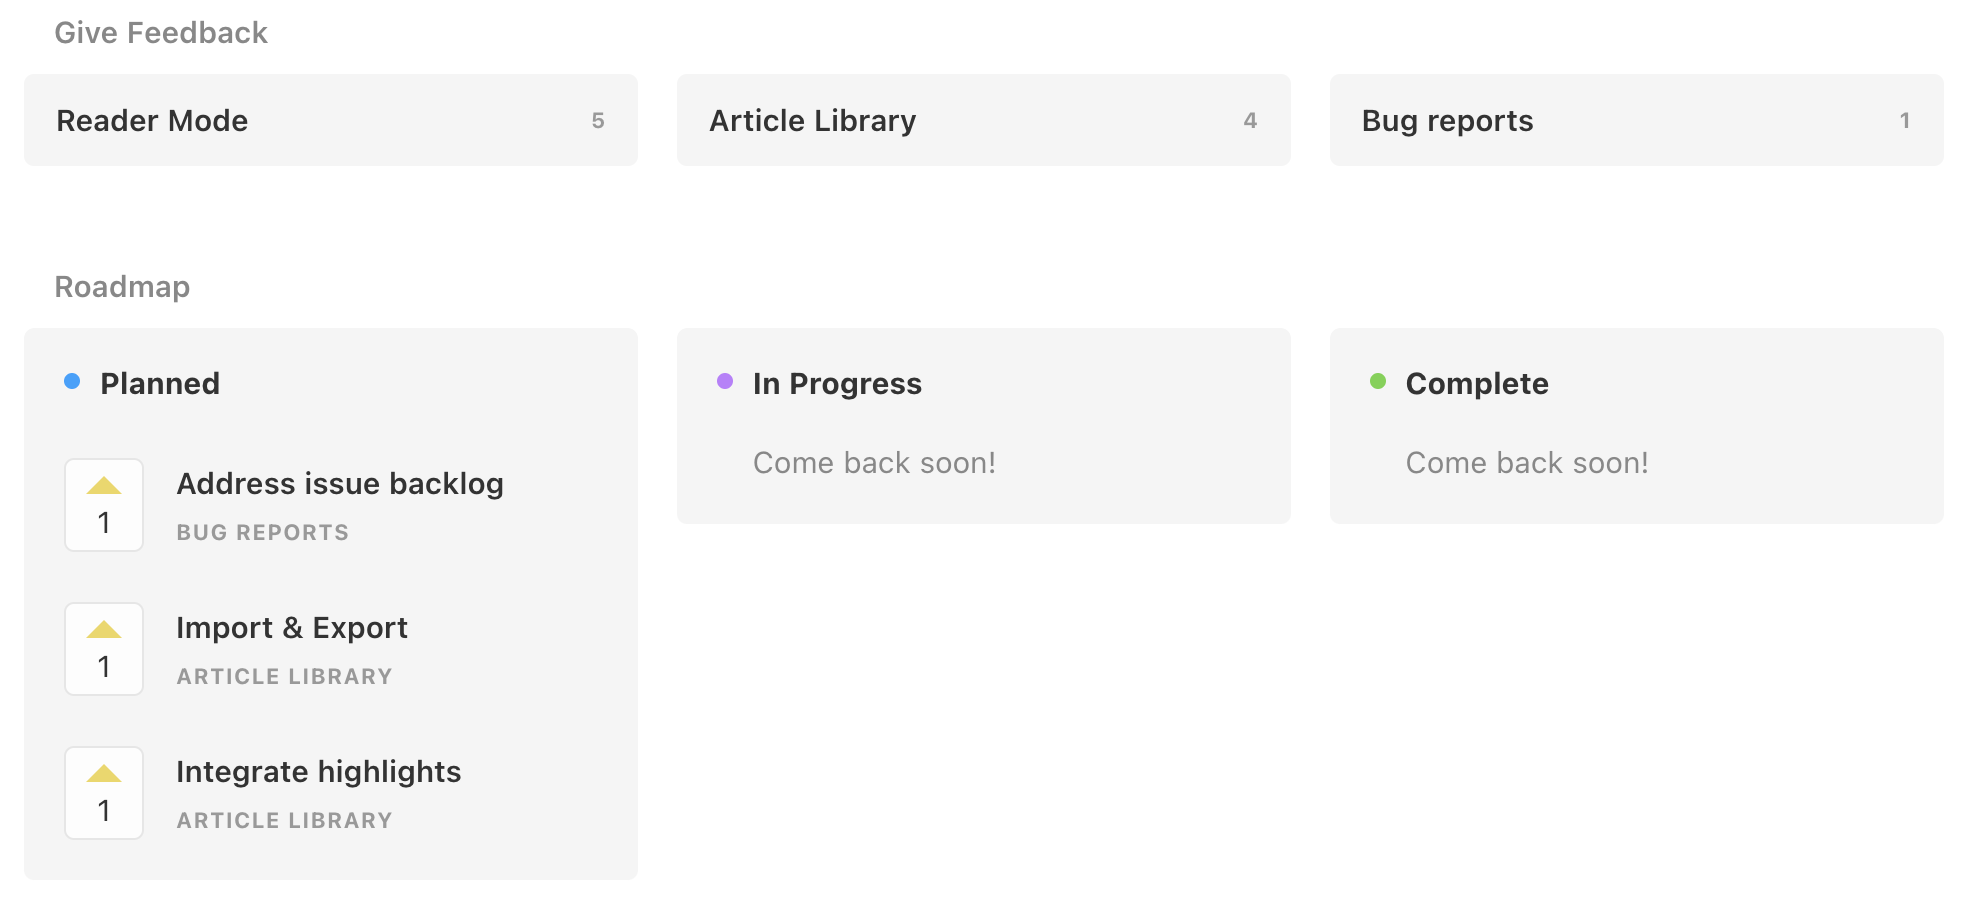
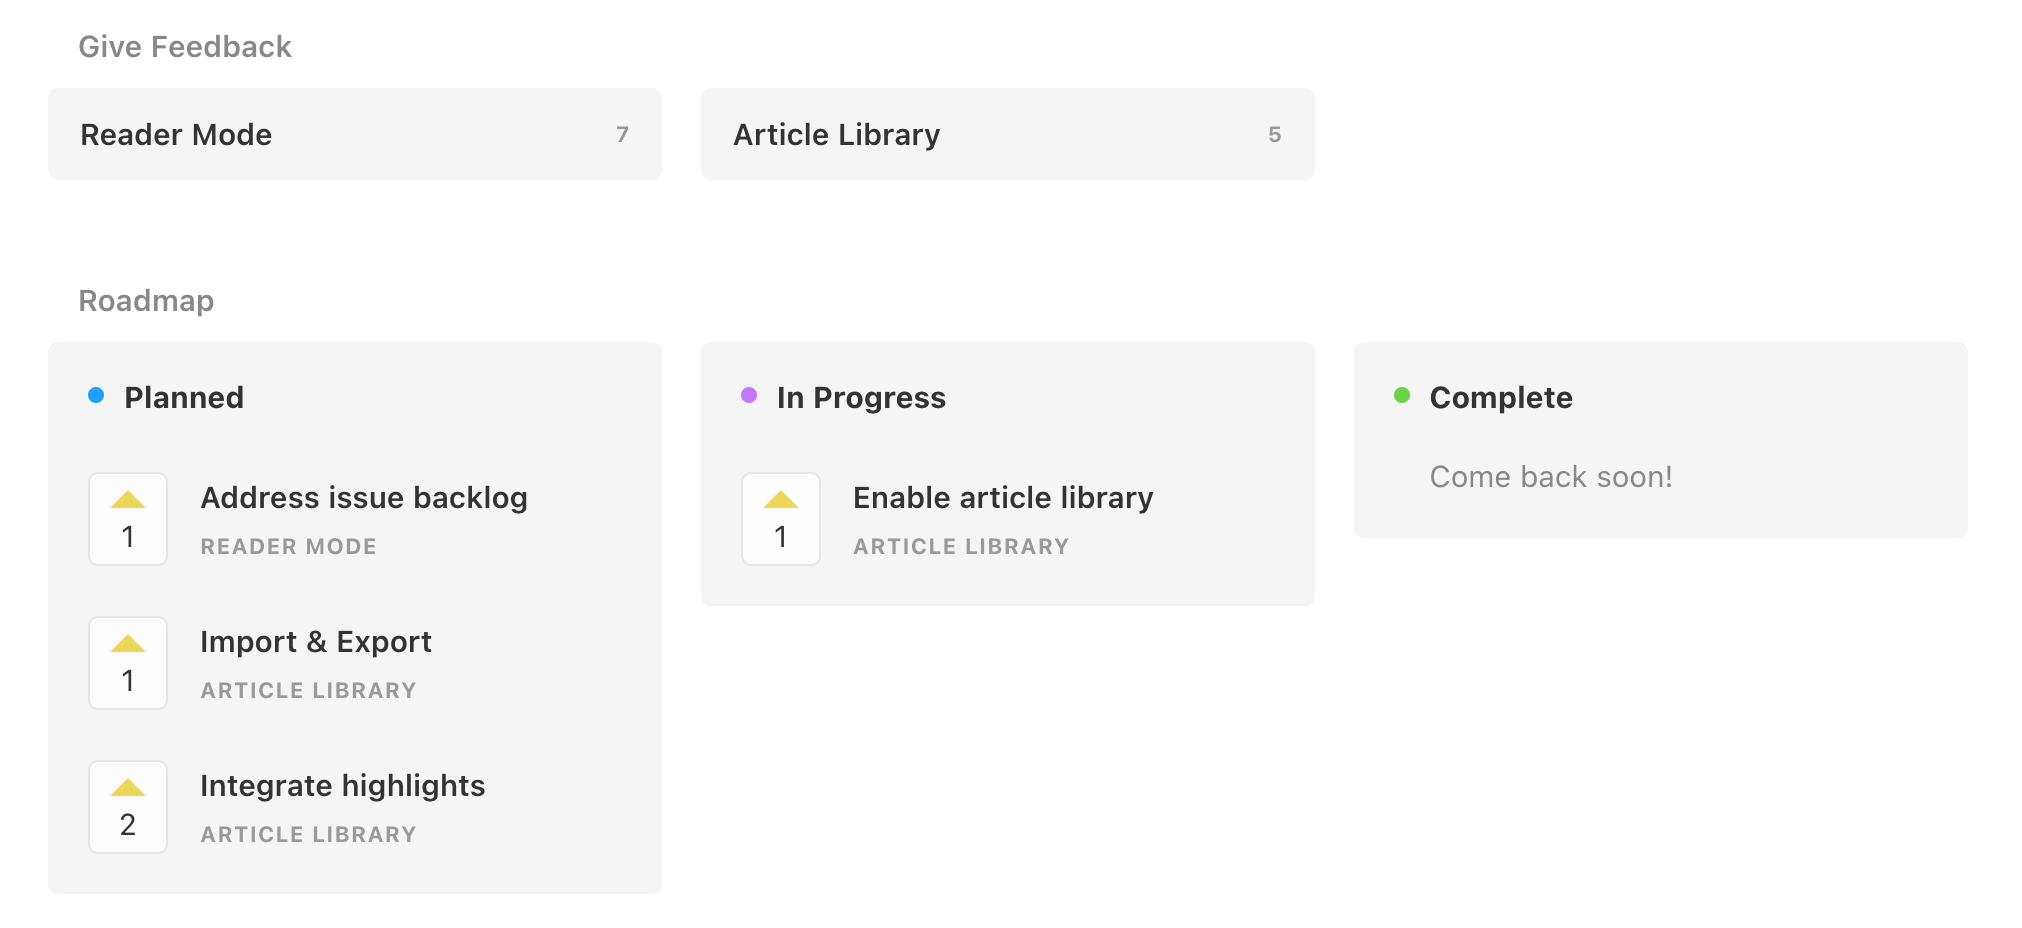
Update readme

diff --git a/common/library-components/src/components/Modal/Settings.tsx b/common/library-components/src/components/Modal/Settings.tsx
@@ -128,9 +128,9 @@ export default function SettingsModalTab({
             >
                 <p>
                     Unclutter is open-source
-                    {showSignup ? " and funded by the community" : ""}! Vote on
-                    the roadmap, suggest features, or report bugs to make it
-                    better for everyone.
+                    {showSignup ? " and funded by the community" : ""}! Suggest
+                    features, contribute code, vote on the roadmap, or report
+                    bugs to make it better for everyone.
                 </p>
 
                 <div className="flex gap-2">

diff --git a/README.md b/README.md
@@ -17,7 +17,9 @@ Unclutter is a modern reader mode and article library for your browser.
 
 ## Why does it exist?
 
-There many other "reader modes", but they all extract article text and re-render it their own format. Unclutter "unclutters" the original web pages itself, leaving the [original website styling](docs/comparison.md) and interactive elements intact.
+There many other "reader modes", but they all extract article text and re-render it their own format. Unclutter "unclutters" the original web pages itself, leaving the [original website styling](docs/comparison.md) and interactive elements intact. 
+
+Adjustments for specific websites are crowdsourced — if you find an annoyance while reading, remove it for everyone!
 
 <!-- Articles you read are saved and organized automatically, instead of having to maintain bookmark folders, tags, or share links between multiple websites.
 With Unclutter, everything happens instantly in your browser.
@@ -38,19 +40,21 @@ Try it out for yourself:
 [<img src="./docs/media/install-firefox.png" height="50">](https://addons.mozilla.org/en-GB/firefox/addon/lindylearn)
 
 
-## Goal & Roadmap
+## Get involved
 
-All the things above are just a start — the goal of this project is to improve reading on the web for everyone. What if Unclutter could automatically bypass paywalls, connect similar articles across the web, or make quotes easily sharable?
+The goal of this project is to improve reading on the web for everyone. You should decide what, when, and how to read articles. What if Unclutter could automatically bypass paywalls, connect similar content across the web, or make quotes easily sharable?
 
-If you'd love to have a specific feature, found an annoying bug, or just want to write down some ideas, suggest them on the [open feedback board](https://unclutter.canny.io/). Or vote on existing suggestions to prioritize the most important changes:
+If you want to contribute ideas or code, [join our Discord server](https://discord.gg/CThpNQjucB)!
 
-[<img src="./docs/media/canny.png">](https://unclutter.canny.io/)
+## Roadmap
 
-<!-- ## Get involved
+We prioritize features to work on via the [open roadmap](https://unclutter.canny.io/). Add your suggestions there or vote on existing features to get them done faster.
 
-If you want to help more, the easiest step is to join our Discord server!
+If you found a bug or want to improve something technical, please open a GitHub issue directly. All feedback from within Unclutter also automatically creates GitHub issues or Pull-Requests.
 
-Also, please consider [supporting the project financially](https://opencollective.com/unclutter) if it is useful to you. All raised money will be split across all open-source contributors, administered by the Open Source Collective. This also unlocks additional features for your article library like AI categorization or a graph view of your captured information.
+<!-- [<img src="./docs/media/canny.png">](https://unclutter.canny.io/) -->
+
+<!-- Also, please consider [supporting the project financially](https://opencollective.com/unclutter) if it is useful to you. All raised money will be split across all open-source contributors, administered by the Open Source Collective. This also unlocks additional features for your article library like AI categorization or a graph view of your captured information.
 
 [![Contributors](https://opencollective.com/unclutter/tiers/sponsors.svg)](https://opencollective.com/unclutter) -->
 
@@ -62,4 +66,5 @@ See the [docs pages](https://github.com/lindylearn/unclutter/blob/main/docs), or
 ## Licence
 
 This project uses [GNU AGPLv3](https://choosealicense.com/licenses/gpl-3.0/), which requires commercial projects that use it to be open-source as well.
-Unclutter exists thanks to everyone who contributes ideas or code, reports bugs, or simply uses the extension.
+
+Unclutter exists thanks to everyone who contributes ideas or code, reports bugs, or simply uses the extension. Thank you from all of us!
